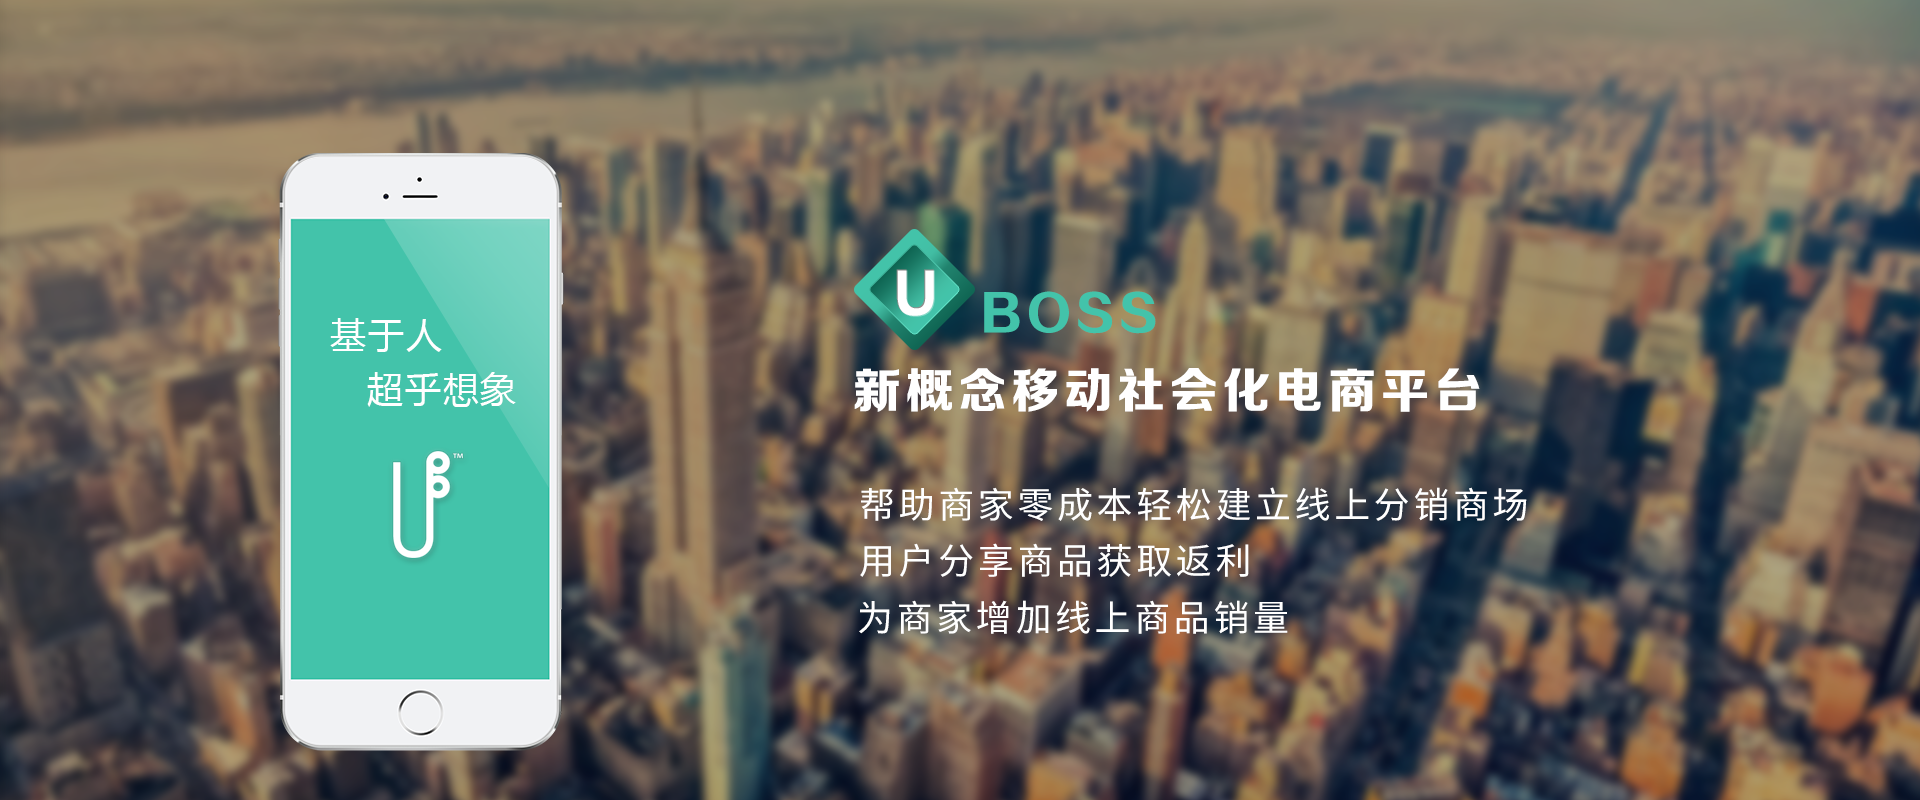
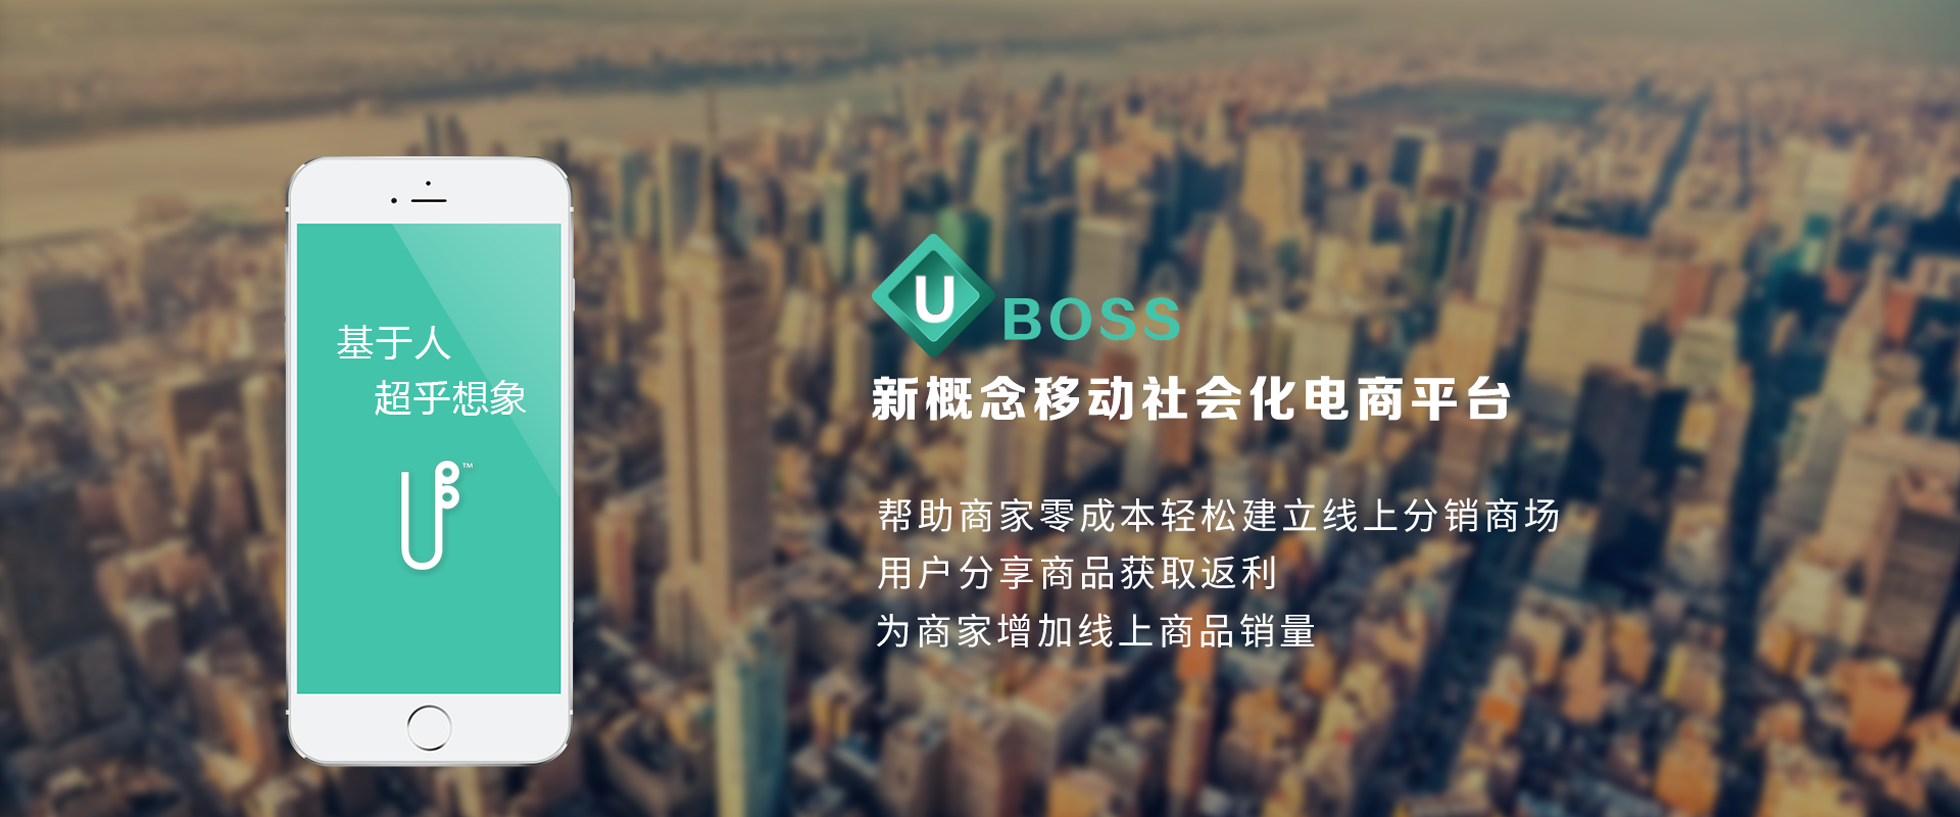
add absolute

diff --git a/app/assets/stylesheets/desktop/index.css b/app/assets/stylesheets/desktop/index.css
@@ -1,4 +1,10 @@
+.container{
+	margin-left: 200px;
+	margin-right:200px;
+}
+
 .header_top {
+	min-width:1366px;
 	width: 100%;
 	height: 100px;
 	line-height: 100px;
@@ -18,6 +24,8 @@
 }
 .header_nav {
 	margin-right: 200px;
+	/*positon:absolute;*/
+	/*display: block;*/
 }
 .header_tag {
 	float: right;
@@ -38,6 +46,7 @@
   vertical-align: bottom;
 }
 .header_img {
+	margin-top:-100px;
 	width: 100%;
   margin-bottom: 80px;
 }
@@ -51,21 +60,27 @@
 	margin-top:40px;
 	display: inline-block;
 }
+#video{
+	width: 100%;
+	text-align: center;
+}
 .video_max{
 	position: absolute;
 	width: 100%;
 	height: 600px;
-	top:550px;
+	/*margin-left:200px;*/
+	top:570px;
 	/*margin: 0 auto;*/
-	display: none;
+	display:none ;
 	/*background-color: #FF9000;*/
-	text-align: center;
+	/*text-align: center;*/
+	/*margin:0 auto;*/
 }
 .video_min{
 	position: absolute;
 	width: 100%;
-	height: 500px;
-	top:550px;
+	height: 450px;
+	top:650px;
 	/*margin: 0 auto;*/
 	display: none;
 	/*background-color: #FF9000;*/
@@ -113,13 +128,13 @@
 .page_titles {
 	width: 220px;
 	font-size: 48px;
-	color: #43c3aa;
+	color: #ffffff;
 	text-align: center;
 	font-weight: bold;
 	position: absolute;
 	margin-top: -23px;
-	left: 96px;
-	background-color: #ffffff;
+	left: 296px;
+	background-color: #43c3aa;
 }
 .page1_content {
 	text-align: center;
@@ -132,6 +147,7 @@
 	-webkit-transform: scale(.7);
 	transform: scale(.7);
 	display:inline-block;
+	margin: 0 -50px 0 -50px;
 }
 .img_mini {
 	-webkit-transform: scale(.5);
@@ -140,8 +156,10 @@
 	margin: 0 -50px 0 -50px;
 }
 .img_max{
+	-webkit-transform: scale(.8);
+	transform: scale(.8);
 	display: inline-block;
-	margin: 50px;
+	margin: 0 -20px 0 -20px;
 }
 .page2_img_m {
 	width: 100%;
@@ -181,8 +199,10 @@
 	/*margin: 100px;*/
 }
 .page4_cont_list_max{
+	-webkit-transform: scale(.8);
+	transform:scale(.8);
 	display: inline-block;
-	margin: 100px;
+	margin: 20px;
 }
 .page4_cont_btn {
 	margin-top: 20px;

diff --git a/app/assets/stylesheets/desktop/serviceCentre.css b/app/assets/stylesheets/desktop/serviceCentre.css
@@ -5,48 +5,12 @@
 		text-decoration: none;
 		color:black;
 	}
-	.header_top {
-		width: 100%;
-		height: 100px;
-		line-height: 100px;
-		/*background-color: rgba(41,38,31,.8);*/
-
-		position: absolute;
-		top: 0px;
-		color: #ffffff;
-		font-size: 26px;
-		font-weight: bold;
-		background: #1e1f1d;
-	}
-	.header_logo {
-		float: left;
-		margin-left: 200px;
-		margin-top: 20px;
-	}
-	.header_nav {
-		margin-right: 200px;
-	}
-	.header_tag {
-		float: right;
-	}
-	.header_tag a {
-		color: #FFFFFF;
-		margin: 15px;
-		text-decoration: none;
-	}
-	.header_cont .header_logo img {
-		position: absolute;
-		top: 28px;
-	}
 
 .service_centre_title{
-	margin: 50px 0 50px 0;
+	margin: 150px 0 50px 0;
 	font-size: 40px;
+	font-weight:bolder;
 	text-align: center;
-}
-.service_centre_title strong{
-	margin:0 auto;
-	font-weight: bold;
 }
 .service_centre_nav{
 	text-align: center;
